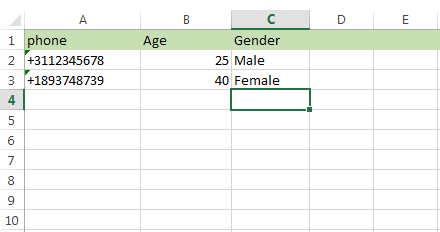
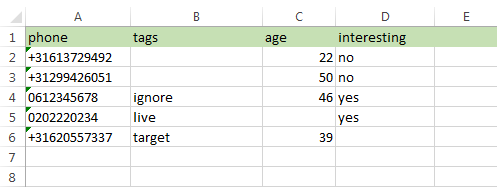
spanish translation

Changed region(s): [[0.0, 0.0267, 1.0, 1.0]]

diff --git a/config/all.py b/config/all.py
@@ -120,7 +120,7 @@ html_static_path = []
 
 # Custom sidebar templates, maps document names to template names.
 html_sidebars = {
- '**' : ['localtoc.html', 'sourcelink.html','searchbox.html']
+ '**' : ['localtoc.html','searchbox.html']
 }
 #html_sidebars = {'**' : ['globaltoc.html', 'localtoc.html', 'sourcelink.html','searchbox.html'] }
 

diff --git a/es/conf.py b/es/conf.py
@@ -19,4 +19,4 @@ sys.path.insert(0, os.path.abspath('..'))
 # Pull in all the configuration options defined in the global config file..
 from config.all import *
 
-language = 'es'
+language = 'en'

diff --git a/en/basic/participant_management.rst b/en/basic/participant_management.rst
@@ -45,15 +45,15 @@ In many cases adding participants one by one is not very efficient. Luckily ther
 
 	The import participants screen 
 
-You can import from a CSV or XLS file. The first column should contain the telephone numbers. Other columns in the file will be seen as labels for the participants, where the top entry of each column will be used as the label name.
+You can import from a CSV or XLS file. The first column should contain the telephone numbers. The second column is reserved for tags.  Other columns in the file will be seen as labels for the participants, where the top entry of each column will be used as the label name.
 
 .. figure:: _static/img/part_excel.PNG
-	:width: 400px
+	:width: 450px
 	:align: center
 	:alt: image19.png
 	:figwidth: 800px
 
-	The first entry in the first column, field A1 in Excel, should always contain the text "phone". Other columns can contain Labels for the participants
+	The first entry in the first column, field A1 in Excel, should always contain the text "phone". The next column contains tags. Other columns can contain Labels for the participants
 
 
 In the Import Participants screen you can also automatically add a tag to the imported participants. Put the tag you want to add to the participants in the "Tag imported participants" field. When you selected the right file and the tag you want to add, click upload. The file will be uploaded and the participants will be added to the database with correct tags attached. 
